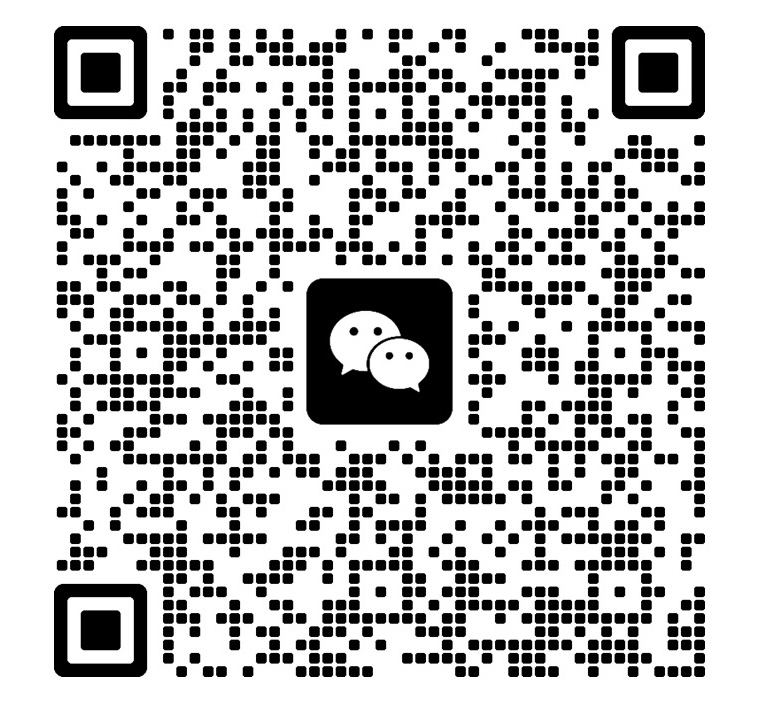
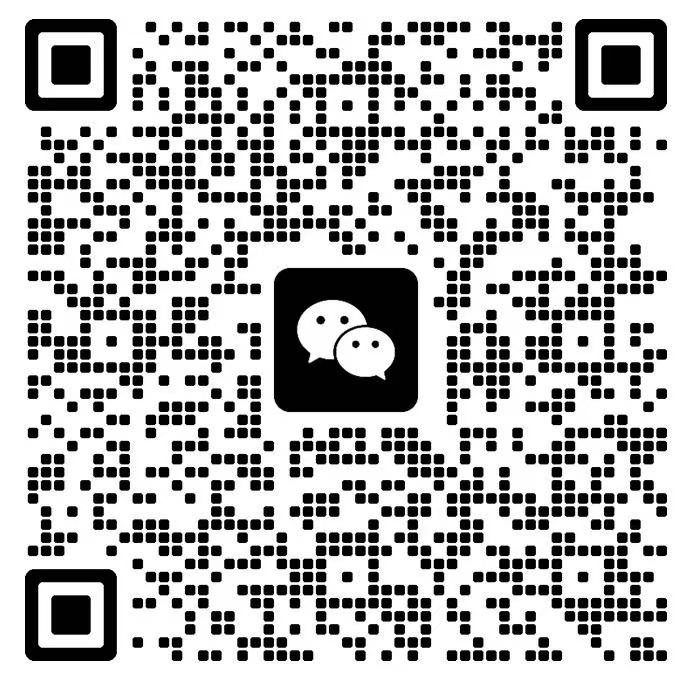
[Docs] Readme Modification
# message auto-generated for no-merge-commit merge:
!2094 merge master into master

[Docs] Readme Modification

Created-by: js1234567
Commit-by: js1234567
Merged-by: ascend-robot
Description: ## Motivation

1. Update QR code
2. Modify the weight converter in user guide section

## Modification

readme

## Self-test (Optional)

If modifications to this PR may cause/fix function/accuracy/performance DTSs/issues, a self-inspection record needs to be attached.

## BC-breaking (Optional)

If there are compatibility issues, such as dependencies on cann/torch_npu versions, they need to be explained in the PR.

## Checklist

**Before PR**:

- [x] The new code needs to comply with the Clean Code specification.
- [x] The PR content is self-checked, and the expression can be clear and the writing standardized

**After PR**:

- [x] CLA has been signed and all committers have signed the CLA in this PR.
- [x] The ci-pipeline is passed, Code Check	is passed.

See merge request: Ascend/MindSpeed-MM!2094

diff --git a/docs/user-guide/getting_start.md b/docs/user-guide/getting_start.md
@@ -295,35 +295,40 @@ pip install decord==0.6.0
 需要对下载后的Wan2.1模型权重`transformer`部分进行权重转换，运行权重转换脚本：
 
 * 启动脚本中修改LOAD_PATH为权重转换后的路径 (./weights/Wan-AI/Wan2.1-T2V-1.3B-Diffusers/transformer/)，SAVE_PATH为保存路径
+
 ```shell
-python examples/wan2.1/convert_ckpt.py --source_path <./weights/Wan-AI/Wan2.1-{T2V/I2V}-{1.3/14}B-Diffusers/transformer/> --target_path <./weights/Wan-AI/Wan2.1-{T2V/I2V}-{1.3/14}B-Diffusers/transformer/> --mode convert_to_mm
+mm-convert WanConverter hf_to_mm \
+ --cfg.source_path <./weights/Wan-AI/Wan2.1-{T2V/I2V/FLF2v}-{1.3/14}B-Diffusers/transformer/> \
+ --cfg.target_path <./weights/Wan-AI/Wan2.1-{T2V/I2V/FLF2v}-{1.3/14}B-Diffusers/transformer/>
+ --cfg.target_parallel_config.pp_layers <pp_layers>
 ```
 
 权重转换脚本的参数说明如下：
 
-| 参数              | 含义                      | 默认值                                                                |
-|:----------------|:------------------------|:-------------------------------------------------------------------|
-| --source_path   | 原始下载权重transformer文件夹的路径 | ./weights/Wan-AI/Wan2.1-{T2V/I2V}-{1.3/14}B-Diffusers/transformer/ |
-| --target_path   | 转换后的权重保存路径              | ./weights/Wan-AI/Wan2.1-{T2V/I2V}-{1.3/14}B-Diffusers/transformer/ |
-| --mode          | 转换模式                    | 需选择convert_to_mm                                                   |
-| --pp_vpp_layers | PP/VPP层数                | 在convert_to_mm时, 使用PP和VPP需要指定各stage的层数并转换, 默认不使用                   |
+| 参数              | 含义                     | 默认值                                                       |
+| :---------------- | :----------------------- | :----------------------------------------------------------- |
+| --cfg.source_path | 原始权重路径             | /                                                            |
+| --cfg.target_path | 转换或切分后权重保存路径 | /                                                            |
+| --pp_layers   | PP/VPP层数               | 开启PP时, 使用PP和VPP需要指定各stage的层数并转换, 默认为`[]`，即不使用 |
 
 如需转回Hugging Face格式，需运行权重转换脚本：
 
-**注**： 如进行layer zero训练，则需首先进行其[训练权重后处理](#jump1)，再进行如下操作：
+**注**： 如进行layer zero进行训练，则需首先进行其`训练权重后处理`，再进行如下操作：
 
 ```shell
-python examples/wan2.1/convert_ckpt.py --source_path <path for your saved weight/> --ckpt_path <./weights/Wan-AI/Wan2.1-{T2V/I2V}-{1.3/14}B-Diffusers/transformer/> --target_path <path for your saved weight/> --mode convert_to_hf
+mm-convert WanConverter mm_to_hf \
+ --cfg.source_path <path for your saved weight/> \
+ --cfg.target_path <./converted_weights/Wan-AI/Wan2.1-{T2V/I2V/FLF2v}-{1.3/14}B-Diffusers/transformer/>
+ --cfg.hf_dir <weights/Wan-AI/Wan2.1-{T2V/I2V/FLF2v}-{1.3/14}B-Diffusers/transformer/>
 ```
 
 权重转换脚本的参数说明如下：
 
 |参数| 含义 | 默认值 |
 |:------------|:----|:----|
-| --source_path | 训练权重/layer zero训练后处理权重 | path for your saved weight |
-| --ckpt_path | 原始下载权重transformer文件夹的路径 | ./weights/Wan-AI/Wan2.1-{T2V/I2V}-{1.3/14}B-Diffusers/transformer/ |
-| --target_path | 转换后的权重保存路径 | ./weights/Wan-AI/Wan2.1-{T2V/I2V}-{1.3/14}B-Diffusers/transformer/ |
-| --mode | 转换模式 | 需选择convert_to_hf |
+| --cfg.source_path | MindSpeed MM保存的权重路径                                   | /      |
+| --cfg.target_path | 转换后的Hugging Face权重路径                                 | /      |
+| --cfg.hf_dir     | 原始Hugging Face权重路径，需要从该目录下获取原始Hugging Face配置文件 |    /   |
 
 ### 3. 数据预处理
 
